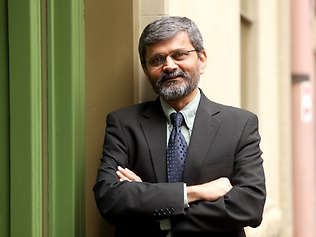
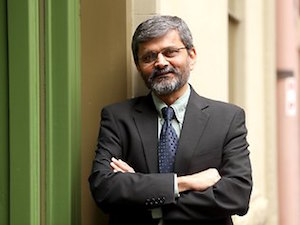
image size is changed.

diff --git a/public_html/~icdf16/schedule.html b/public_html/~icdf16/schedule.html
@@ -121,15 +121,15 @@
                         </tr>
                         <tr>
                             <td>10:30 - 11:15</td>
-                            <td><b>Opening Talk:</b> Prof. Jun Murai (Dean of the Faculty of Environment and Information Studies, Keio University, Japan)</td>
+                            <td><b>Opening Keynote:</b> Dr. Jun Murai (Dean of the Faculty of Environment and Information Studies, Keio University, Japan)</td>
                         </tr>
                         <tr>
                             <td>11:15 - 12:00</td>
-                            <td><b>Keynote Speech (Farming):</b> Dr. Masayuki Hirafuji (Tsukuba University)</td>
+                            <td><b>Guest:</b> Dr. Masayuki Hirafuji (Tsukuba University)</td>
                         </tr>
                         <tr>
                             <td>12:00 - 13:00</td>
-                            <td><b>One Minutes Madness</b></td>
+                            <td><b>One-minute poster pitch session</b></td>
                         </tr>
                         <tr>
                             <td>13:00 - 14:00</td>
@@ -148,7 +148,7 @@
                         </tr>
                         <tr>
                             <td>18:00 - 18:45</td>
-                            <td><b>Plenary Talk (Medical):</b> Prof. Koichi Nakayama (Department of Regenerative Medicine and Biomedical Engineering, Saga University)</td>
+                            <td><b>Guest:</b> Dr. Koichi Nakayama (Department of Regenerative Medicine and Biomedical Engineering, Saga University)</td>
                         </tr>
                         <tr>
                             <td>19:00 - </td>
@@ -164,11 +164,11 @@
                         </tr>
                         <tr>
                             <td>10:30 - 11:15</td>
-                            <td><b>Keynote Speech:</b> Prof. U. B. Desai (Director, IIT Hyderabad, India)</td>
+                            <td><b>Opening Keynote:</b> Dr. U. B. Desai (Director, IIT Hyderabad, India)</td>
                         </tr>
                         <tr>
                             <td>11:15 - 12:00</td>
-                            <td><b>Keynote Speech:</b> Prof. Guy Littlefair (Dean of Engineering and Head of School, Deakin University, Australia)</td>
+                            <td><b>Opening Keynote:</b> Dr. Guy Littlefair (Dean of Engineering and Head of School, Deakin University, Australia)</td>
                         </tr>
                         <tr>
                             <td>12:00 - 13:00</td>
@@ -178,8 +178,8 @@
                             <td>13:00 - 14:50</td>
                             <td>
                             <b>Paper Session 3:</b> Social and Legal Issues: Chaired by Mr. Weinberg<br />
-                            <b>Special Talk (Education):</b> Ms. Youka Watanabe (FabLab Kamakura)<br />
-                            <b>Special Talk (Ethnographic research):</b> Mr. Matt Krebs (FabLab Kamakura, Keio University) 
+                            <b>Guest:</b> Ms. Youka Watanabe (FabLab Kamakura)<br />
+                            <b>Guest:</b> Mr. Matt Krebs (FabLab Kamakura, Keio University) 
                             </td>
                         </tr>
                         <tr>
@@ -191,11 +191,11 @@
                         </tr>
                         <tr>
                             <td>17:00 - 17:45</td>
-                            <td><b>Plenary Talk:</b> Prof. Shinjiro Umezu (Waseda University, Faculty of Science and Engineering)</td>
+                            <td><b>Guest:</b> Dr. Shinjiro Umezu (Waseda University, Faculty of Science and Engineering)</td>
                         </tr>
                         <tr>
                             <td>17:45 - </td>
-                            <td><b>Closing Talk:</b> Prof. Ian Gibson (Engineering and Head of School, Deakin University, Australia)</td>
+                            <td><b>Closing:</b> Dr. Ian Gibson (Engineering and Head of School, Deakin University, Australia)</td>
                         </tr>
                     </table>
                     <br />
@@ -203,7 +203,7 @@
                     <table class="timetable">
                         <caption>Day-3 (Mar 05)</caption>
                         <tr>
-                            <th rowspan="6">Day-3 (Mar 05)</th>
+                            <th rowspan="7">Day-3 (Mar 05)</th>
                             <td class="time">10:00 - 12:00</td>
                             <td><b>COI Demo Session</b></td>
                         </tr>
@@ -217,26 +217,26 @@
                         </tr>
                         <tr>
                             <td>13:30 - 14:30</td>
-                            <td><b>Theme 1:</b> Inclusive Design / Kansei-based Design
-                            <br /><b>Plenary Talk 1:</b> Prof. Julia Cassim (Kyoto Institute of Technology, D-Lab, Faculty Member )
-                            <br /><b>COI Talk 1:</b> Prof. Kaoru Arakawa (Meiji University), Noriko Nagata (Kwansei Gakuin University) and Dr. Kouichiro Eto (AIST)
+                            <td><b>Session 1:</b> Inclusive Design / Kansei-based Design
+                            <br /><b>Plenary Talk 1:</b> Dr. Julia Cassim (Kyoto Institute of Technology, D-Lab, Faculty Member )
+                            <br /><b>COI Talk 1:</b> Dr. Kaoru Arakawa (Meiji University), Dr. Noriko Nagata (Kwansei Gakuin University) and Dr. Kouichiro Eto (AIST)
                             </td>
                         </tr>
                         <tr>
                             <td>14:40 - 15:40</td>
-                            <td><b>Theme 2:</b> Development of 3D Printer as Open Source Hardware
-                            <br /><b>Plenary Talk 2:</b> Dr. Adrian Bowyer (RepRap Professional, Ltd.) (Video)
-                            <br /><b>COI Talk 2:</b> Prof. Hiroya Tanaka (Faculty of Environment and Information Studies, Keio University, Japan) and Prof. Hidemitsu Furukawa (Department of Mechanical Systems Engineering ,Faculty of Engineering,Yamagata University)
+                            <td><b>Session 2:</b> Development of 3D Printer as Open Source Hardware
+                            <br /><b>Plenary Talk 2:</b> Dr. Adrian Bowyer (RepRap Dressional, Ltd.) (Video)
+                            <br /><b>COI Talk 2:</b> Dr. Hiroya Tanaka (Faculty of Environment and Information Studies, Keio University, Japan) and Dr. Hidemitsu Furukawa (Department of Mechanical Systems Engineering ,Faculty of Engineering,Yamagata University)
                         </tr>
                         <tr>
                             <td>15:50 - 16:50</td>
-							<td><b>Theme 3:</b> Intellectual Property and Business Model
+							<td><b>Session 3:</b> Intellectual Property and Business Model
                             <br /><b>Plenary Talk 3:</b> Mr. Michael Weinberg (IP & General Counsel, Shapeways, Inc.)
-                            <br /><b>COI Talk 3:</b> Prof. Shigeru Kobayashi (IAMAS) and Prof. Tomoaki Watanabe (Graduate School of Media and Governance, Keio University)
+                            <br /><b>COI Talk 3:</b> Dr. Shigeru Kobayashi (IAMAS) and Dr. Tomoaki Watanabe (Graduate School of Media and Governance, Keio University)
                         </tr>
                         <tr>
                             <td>17:00 - 17:30</td>
-                            <td><b>Panel Discussion</b></td>
+                            <td><b>Panel Discussion:</b> Dr.Julia Cassim, Mr. Michael Weinberg, Dr. Jun Murai and Mr. Kenji Matsubara</td>
                         </tr>
                     </table>
                 </section>

diff --git a/public_html/~icdf16/committee.html b/public_html/~icdf16/committee.html
@@ -84,59 +84,59 @@
                 <section class="main-section">
                     <h3 class="heading-m">Patrons</h3>
                     <figure class="ta-c">
-						<img src="./committiee/murai.jpg" alt="Prof. Jun Murai" width=300>
+						<img src="./committiee/murai.jpg" alt="Dr. Jun Murai" width=300>
 						<figcaption>
-							<b>Prof. Jun Murai</b>
+							<b>Dr. Jun Murai</b>
 							<br />(Dean of the Faculty of Environment and Information Studies, Keio University, Japan)
 						</figcaption>
                     </figure>
                     <br />
 					<figure class="ta-c">
-	                    <img src="./committiee/littlefair.png" alt="Prof. Guy Littlefair" width=300>
+	                    <img src="./committiee/littlefair.jpg" alt="Dr. Guy Littlefair" width=300>
     	                <figcaption>
-    	                	<b>Prof. Guy Littlefair</b>
+    	                	<b>Dr. Guy Littlefair</b>
     	                	<br />(Dean of Engineering and Head of School, Deakin University, Australia)
     	                </figcaption>
                     </figure>
                     <br />
                     <figure class="ta-c">
-                    	<img src="./committiee/desai.jpg" alt="Prof. Jun Murai" width=300>
+                    	<img src="./committiee/desai.jpg" alt="Dr. Jun Murai" width=300>
                     	<figcaption>
-                    		<b>Prof. U. B. Desai</b>
+                    		<b>Dr. U. B. Desai</b>
                     		<br />(Director, IIT Hyderabad, India)
                     	</figcaption>
                     </figure>
                     <p></p>
                     <h3 class="heading-m">Organizing Chairs</h3>
                     <figure class="ta-c">
-						<img src="./committiee/hiroya.jpg" alt="Prof. Hiroya Tanaka " width=300>
+						<img src="./committiee/hiroya.jpg" alt="Dr. Hiroya Tanaka " width=300>
 						<figcaption>
-							<b>Prof. Hiroya Tanaka</b>
+							<b>Dr. Hiroya Tanaka</b>
 							<br />(Faculty of Environment and Information Studies, Keio University, Japan)
 						</figcaption>
                     </figure>
                     <br />
                     <figure class="ta-c">
-						<img src="./committiee/Reddy.jpg" alt="Prof. Venkata Reddy" width=300>
+						<img src="./committiee/reddy.jpg" alt="Dr. Venkata Reddy" width=262>
 						<figcaption>
-							<b>Prof. Venkata Reddy</b>
+							<b>Dr. Venkata Reddy</b>
 							<br />(IIT Hyderabad, India)
 						</figcaption>
                     </figure>
                     <br />
                     <figure class="ta-c">
-						<img src="./committiee/IanGibson.jpg" alt="Prof. Ian Gibson" width=300>
+						<img src="./committiee/IanGibson.jpg" alt="Dr. Ian Gibson" width=283>
 						<figcaption>
-							<b>Prof. Ian Gibson</b>
+							<b>Dr. Ian Gibson</b>
 							<br />(Engineering and Head of School, Deakin University, Australia)
 						</figcaption>
                     </figure>
                     <p></p>
                     <h3 class="heading-m">Local Chair</h3>
                     <figure class="ta-c">
-						<img src="./committiee/Tomoaki.jpg" alt="Prof. Tomoaki Watanabe" width=300>
+						<img src="./committiee/Tomoaki.jpg" alt="Dr. Tomoaki Watanabe" width=300>
 						<figcaption>
-							<b>Prof. Tomoaki Watanabe</b>
+							<b>Dr. Tomoaki Watanabe</b>
 							<br />(Faculty of Graduate School of Media and Governance, Keio University, Japan)
 						</figcaption>
                     </figure>                    

diff --git a/public_html/~icdf16/speakers.html b/public_html/~icdf16/speakers.html
@@ -189,7 +189,7 @@
                     <h4>[Inclusive Design and Kansei-based Design] (5 March, 13:30 - 14:00)</h4>
                     <table class="timetable">
                         <tr>
-                        	<th colspan="2" align="left"><b>Prof. Julia Cassim </b>(Kyoto Institute of Technology, D-Lab, Faculty Member )</th>
+                        	<th colspan="2" align="left"><b>Dr. Julia Cassim </b>(Kyoto Institute of Technology, D-Lab, Faculty Member )</th>
 						</tr>
 						<tr>
 							<td width="70%">
@@ -199,7 +199,7 @@
 							</td>
                             <td width="30%">
 								<figure>
-									<img src="./speaker/prof_cassim.jpg" alt="Prof. Julia Cassim" width=300>
+									<img src="./speaker/prof_cassim.jpg" alt="Dr. Julia Cassim" width=300>
 								</figure>
 							</td>
                         </tr> 
